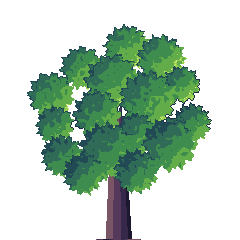
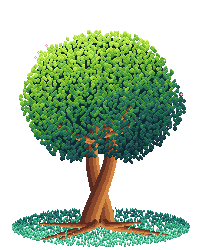
art: leafier procedural trees (stamped leaves, top light, twisted trunk, roots on a mound)
Style studied from pixel-art tree references; no pixels copied.
Comparison now 46,538 vs 12,584 changed px per loop on the demo tree.

diff --git a/index.html b/index.html
@@ -79,11 +79,11 @@
         <div class="stage">
           <figure>
             <div class="well"><canvas id="howRot"></canvas></div>
-            <figcaption class="eyebrow">Rotation sway · <span id="rotCount">25,258</span> px change per loop</figcaption>
+            <figcaption class="eyebrow">Rotation sway · <span id="rotCount">46,538</span> px change per loop</figcaption>
           </figure>
           <figure>
             <div class="well"><canvas id="howOurs"></canvas></div>
-            <figcaption class="eyebrow">Pixel Wind · <span id="oursCount">5,174</span> px change per loop</figcaption>
+            <figcaption class="eyebrow">Pixel Wind · <span id="oursCount">12,584</span> px change per loop</figcaption>
           </figure>
         </div>
         <p>

diff --git a/tests/core/analyze.test.ts b/tests/core/analyze.test.ts
@@ -64,8 +64,8 @@ describe('analyze', () => {
 
   it('matches the known values on the demo tree', () => {
     const p = analyze(loadTree());
-    expect(p.bbox).toEqual({ x0: 17, y0: 16, x1: 133, y1: 149 });
-    expect(p.pinY).toBe(124);
+    expect(p.bbox).toEqual({ x0: 8, y0: 18, x1: 121, y1: 157 });
+    expect(p.pinY).toBe(130);
     expect(p.clusters.length).toBe(8);
   });
 });

diff --git a/tests/core/render.test.ts b/tests/core/render.test.ts
@@ -33,7 +33,7 @@ describe('renderFrames', () => {
   it('returns N frames of the source size, frame 0 identical', () => {
     const r = run({ strength: 2, frames: 8, seed: 1 });
     expect(r.frames.length).toBe(8);
-    expect(r.frames[0].width).toBe(150);
+    expect(r.frames[0].width).toBe(128);
     expect(imagesEqual(r.frames[0], r.img)).toBe(true);
   });
 

diff --git a/scripts/art/tree.py b/scripts/art/tree.py
@@ -1,8 +1,8 @@
 """Procedural pixel-art tree (original art for the Pixel Wind demo, CC0).
 
-Canopy = overlapping leaf clumps with jagged edges, lit from the top-left,
-drawn top-to-bottom so lower clumps overlap the ones behind them. Trunk and a
-few branches are drawn first and peek through the gaps.
+Style: a canopy built from hundreds of small stamped leaves, lit from above
+(yellow-green crown fading to deep teal underneath, dark interior showing the
+branches), a twisted warm-brown trunk, roots spreading over a grassy mound.
 
 usage: python tree.py SEED WIDTH HEIGHT OUT.png
 """
@@ -11,121 +11,174 @@ import sys
 import numpy as np
 from PIL import Image
 
-LEAF = ["#1b2f45", "#224a55", "#2f6b56", "#3f8c4f", "#62ad4a", "#96cf4f", "#d4ec7a"]
-BARK = ["#1d1730", "#35284a", "#54395a", "#7a5566"]
+
+def ramp(*hexes):
+    return [tuple(int(h[i:i + 2], 16) for i in (1, 3, 5)) for h in hexes]
 
 
-def hexc(s):
-    return tuple(int(s[i:i + 2], 16) for i in (1, 3, 5))
+LEAF = ramp("#10292f", "#173f45", "#1f5b55", "#2a7a50", "#4f9c3a", "#7fbf35", "#aee045", "#d8f46a")
+BARK = ramp("#321814", "#5a2b20", "#86442a", "#b06434", "#d48a44")
+GRASS = ramp("#173f47", "#1f6160", "#2a8a75", "#47b98e", "#80e2ae")
+FLOWER = ramp("#e59bbd", "#fff0f6")
+
+# leaf stamps: h = highlight, b = body, s = shadow edge
+LEAVES = [
+    ["  hh", " hbb", "hbbs", "bbs ", "bs  "],
+    [" hh ", "hbbh", "bbbb", "sbbs", " ss "],
+    ["hhb", "bbb", "bbs", "ss "],
+    [" hb ", "hbbb", "bbbs", " bs "],
+]
+BLADES = [["h", "b", "s"], [" h", "hb", "bs"], ["h ", "bh", "sb"], ["h", "b"]]
 
 
-LEAF = [hexc(c) for c in LEAF]
-BARK = [hexc(c) for c in BARK]
+class Canvas:
+    def __init__(self, W, H):
+        self.W, self.H = W, H
+        self.rgb = np.zeros((H, W, 3), np.uint8)
+        self.op = np.zeros((H, W), bool)
+
+    def put(self, x, y, c):
+        x, y = int(round(x)), int(round(y))
+        if 0 <= x < self.W and 0 <= y < self.H:
+            self.rgb[y, x] = c
+            self.op[y, x] = True
+
+    def stamp(self, shape, x, y, pal, t):
+        for j, row in enumerate(shape):
+            for i, ch in enumerate(row):
+                if ch == " ":
+                    continue
+                k = t + 1 if ch == "h" else t - 1 if ch == "s" else t
+                self.put(x + i, y + j, pal[max(0, min(len(pal) - 1, k))])
 
 
-def smooth_noise(rng, w, h, period):
-    """Blocky value noise at roughly `period` px, bilinear, about 0..1."""
-    gw, gh = w // period + 2, h // period + 2
-    g = rng.random((gh, gw))
-    ys, xs = np.mgrid[0:h, 0:w] / period
-    x0, y0 = xs.astype(int), ys.astype(int)
-    fx, fy = xs - x0, ys - y0
-    a = g[y0, x0] * (1 - fx) + g[y0, x0 + 1] * fx
-    b = g[y0 + 1, x0] * (1 - fx) + g[y0 + 1, x0 + 1] * fx
-    return a * (1 - fy) + b * fy
-
-
-def line(canvas, mask, x0, y0, x1, y1, w0, w1, tone_fn):
-    n = int(max(abs(x1 - x0), abs(y1 - y0))) + 1
-    for i in range(n):
-        t = i / max(1, n - 1)
-        x, y, w = x0 + (x1 - x0) * t, y0 + (y1 - y0) * t, w0 + (w1 - w0) * t
-        for dx in range(int(-w / 2) - 1, int(w / 2) + 2):
-            px, py = int(round(x + dx)), int(round(y))
-            if 0 <= px < canvas.shape[1] and 0 <= py < canvas.shape[0] and abs(px - x) <= w / 2:
-                canvas[py, px] = tone_fn((px - x) / max(w / 2, 1))
-                mask[py, px] = True
+def strand(cv, pts, w0, w1, light=-1):
+    """Thick tapered stroke along a polyline, shaded across its width."""
+    segs = list(zip(pts[:-1], pts[1:]))
+    total = sum(np.hypot(b[0] - a[0], b[1] - a[1]) for a, b in segs) or 1
+    done = 0.0
+    for (x0, y0), (x1, y1) in segs:
+        ln = np.hypot(x1 - x0, y1 - y0)
+        n = int(ln * 2) + 1
+        nx, ny = -(y1 - y0) / (ln or 1), (x1 - x0) / (ln or 1)
+        for i in range(n):
+            t = i / n
+            f = (done + ln * t) / total
+            w = w0 + (w1 - w0) * f
+            cx, cy = x0 + (x1 - x0) * t, y0 + (y1 - y0) * t
+            for s in np.arange(-w / 2, w / 2 + 0.01, 0.5):
+                u = s / max(w / 2, 0.5) * light          # -1 lit side .. 1 shade side
+                k = 4 if u < -0.6 else 3 if u < -0.1 else 2 if u < 0.5 else 1
+                cv.put(cx + nx * s, cy + ny * s, BARK[k])
+        done += ln
+    return cv
 
 
 def make_tree(seed, W, H):
     rng = np.random.default_rng(seed)
-    img = np.zeros((H, W, 3), np.uint8)
-    op = np.zeros((H, W), bool)
-    cx = W / 2 + rng.uniform(-2, 2)
+    cv = Canvas(W, H)
+    cx = W / 2
+    ground = H - H * 0.09
+    mound_rx, mound_ry = W * 0.44, H * 0.075
+    can_top, can_bot = H * 0.08, H * 0.71
+    can_cy = (can_top + can_bot) / 2
+    can_rx, can_ry = W * 0.39, (can_bot - can_top) / 2 * 0.86
 
-    # canopy ellipse
-    rmax = 0.13 * W
-    crx, cry = W * 0.5 - rmax - 3, H * 0.40 - rmax * 0.5
-    ccy = cry + rmax + 2
-    base_y = H - 1
-    trunk_top = ccy + cry * 0.2
-
-    def bark(u):  # u in [-1, 1] across the trunk, lit from the left
-        return BARK[3] if u < -0.45 else BARK[2] if u < 0.2 else BARK[1] if u < 0.7 else BARK[0]
-
-    # trunk + root flare
-    line(img, op, cx, base_y, cx + rng.uniform(-2, 2), trunk_top, W * 0.11, W * 0.06, bark)
-    for s in (-1, 1):
-        line(img, op, cx + s * W * 0.03, base_y, cx + s * W * 0.09, base_y, 3, 2, bark)
-    # branches toward the canopy
-    for _ in range(5):
-        ang = rng.uniform(-2.4, -0.7)
-        ln = rng.uniform(0.45, 0.8) * crx
-        sx, sy = cx, trunk_top + rng.uniform(0, H * 0.08)
-        line(img, op, sx, sy, sx + np.cos(ang) * ln, sy + np.sin(ang) * ln * 0.8, W * 0.035, 1.5, bark)
-
-    # clumps: sample centres inside the canopy ellipse
-    clumps = []
-    tries = 0
-    while len(clumps) < 60 and tries < 6000:
-        tries += 1
-        ang, rad = rng.uniform(0, 2 * np.pi), np.sqrt(rng.random())
-        x = cx + np.cos(ang) * rad * crx * 0.86
-        y = ccy + np.sin(ang) * rad * cry * 0.86
-        r = rng.uniform(0.09, 0.13) * W * (1.0 - 0.2 * rad)
-        if all(np.hypot(x - a, y - b) > 0.7 * (r + c) for a, b, c, *_ in clumps):
-            clumps.append((x, y, r, rng.uniform(0, 2 * np.pi), rng.integers(11, 15)))
-    clumps.sort(key=lambda c: c[1])  # top first; lower clumps overlap
-
-    leafn = smooth_noise(rng, W, H, 3)
     yy, xx = np.mgrid[0:H, 0:W].astype(float)
-    lx, ly = -0.62, -0.78
-    top, bot = ccy - cry, ccy + cry
-    for x, y, r, ph, k in clumps:
-        dx, dy = xx - x, yy - y
-        theta = np.arctan2(dy, dx)
-        edge = r * (1 + 0.08 * np.sin(k * theta + ph) + 0.05 * np.sin(2.3 * k * theta + 2 * ph)) + 1.6 * (leafn - 0.5)
-        d = np.hypot(dx, dy)
-        inside = d <= edge
-        if not inside.any():
-            continue
-        lam = -(dx * lx + dy * ly) / np.maximum(edge, 1)          # -1 .. 1
-        height = 1 - np.clip((yy - top) / (bot - top), 0, 1)      # 1 at top
-        t = 2.1 + 1.8 * lam + 1.5 * height + 1.2 * (leafn - 0.5)
-        rim = inside & (d > edge - 1.6) & (lam < 0.1)             # dark separation on the shadow side
-        t = np.where(rim, np.minimum(t, 0.6), t)
-        tone = np.clip(np.round(t), 0, 5).astype(int)
-        for i in range(6):
-            m = inside & (tone == i)
-            img[m] = LEAF[i]
-        op |= inside
 
-    # sparse highlight flecks on lit upper clumps
-    lit = op & (img == np.array(LEAF[5])).all(axis=2)
-    cand = np.argwhere(lit)
-    for py, px in cand[rng.choice(len(cand), size=min(len(cand), W // 5), replace=False)]:
-        img[py, px] = LEAF[6]
+    # --- grassy mound, back half
+    def mound(front):
+        for _ in range(int(W * H * 0.05)):
+            x = cx + rng.uniform(-1, 1) * mound_rx
+            dy = mound_ry * np.sqrt(max(0, 1 - ((x - cx) / mound_rx) ** 2))
+            y = ground + rng.uniform(-dy, dy)
+            is_front = y > ground - 1
+            if is_front != front:
+                continue
+            depth = (y - (ground - dy)) / max(2 * dy, 1)        # 0 back .. 1 front
+            t = int(np.clip(round(0.8 + 2.6 * depth + rng.normal(0, 0.3)), 1, 3))
+            cv.stamp(BLADES[rng.integers(len(BLADES))], x, y - 2, GRASS, t)
 
-    # silhouette outline on the shadow side
-    pad = np.pad(op, 1)
-    edge = op & ~(pad[:-2, 1:-1] & pad[2:, 1:-1] & pad[1:-1, :-2] & pad[1:-1, 2:])
-    shade = (xx - cx) * 0.4 + (yy - ccy)
-    out = edge & (shade > -cry * 0.15) & (yy < trunk_top)
-    img[out] = LEAF[0]
+    mound(front=False)
+
+    # --- trunk: two intertwined strands + branches
+    top_y = can_cy + can_ry * 0.35
+    for ph in (0.0, np.pi):
+        pts = [(cx + np.sin(t * 3.6 + ph + seed) * W * 0.05 + (t - 0.5) * W * 0.03,
+                ground - 2 - t * (ground - 2 - top_y)) for t in np.linspace(0, 1, 12)]
+        strand(cv, pts, W * 0.09, W * 0.045)
+    for k in range(5):
+        side = -1 if k % 2 else 1
+        sx, sy = cx + rng.uniform(-2, 2), top_y + rng.uniform(0, H * 0.08)
+        ex = cx + side * rng.uniform(0.35, 0.7) * can_rx
+        ey = sy - rng.uniform(0.15, 0.45) * can_ry
+        mid = ((sx + ex) / 2 + side * rng.uniform(0, 4), (sy + ey) / 2 + rng.uniform(2, 6))
+        strand(cv, [(sx, sy), mid, (ex, ey)], W * 0.035, 1.2, light=-side)
+
+    # --- canopy mask: big dome + lumps, notched underneath
+    mask = ((xx - cx) / can_rx) ** 2 + ((yy - can_cy) / can_ry) ** 2 <= 1
+    for _ in range(9):
+        a = rng.uniform(np.pi * 0.95, np.pi * 2.05)
+        bx, by = cx + np.cos(a) * can_rx * 0.75, can_cy + np.sin(a) * can_ry * 0.7
+        r = rng.uniform(0.09, 0.13) * W
+        mask |= (xx - bx) ** 2 + (yy - by) ** 2 <= r * r
+    notch = ((xx - cx) / (can_rx * 0.45)) ** 2 + ((yy - can_bot) / (can_ry * 0.35)) ** 2 <= 1
+    mask &= ~notch
+    mys, mxs = np.nonzero(mask)
+    ctop, cbot = mys.min(), mys.max()
+
+    # dark interior first, so gaps between leaves read as depth
+    inner = mask & (((xx - cx) / can_rx) ** 2 + ((yy - can_cy) / can_ry) ** 2 <= 0.85)
+    cv.rgb[inner & ~cv.op] = LEAF[0]
+    cv.op |= inner
+
+    # --- leaves
+    leaves = []
+    step = 3.3
+    for y in np.arange(ctop - 2, cbot + 2, step):
+        for x in np.arange(mxs.min() - 2, mxs.max() + 2, step):
+            px, py = x + rng.uniform(-1.2, 1.2), y + rng.uniform(-1.2, 1.2)
+            ix, iy = int(px), int(py)
+            if not (0 <= ix < W and 0 <= iy < H and mask[iy, ix]):
+                continue
+            height = 1 - (py - ctop) / max(1, cbot - ctop)          # 1 at the crown
+            side = (px - cx) / can_rx
+            lam = -0.18 * side + 1.0 * height                          # light from above, a touch from the left
+            centre = max(0, 1 - abs(side) * 1.4) * max(0, 0.75 - height)
+            if rng.random() < 0.55 * centre:                           # hollow, shaded underside
+                continue
+            t = round(1.0 + 5.2 * lam + rng.normal(0, 0.35))
+            leaves.append((int(np.clip(t, 1, 6)), rng.random(), px, py))
+    leaves.sort()                                                      # bright leaves land on top
+    for t, _, px, py in leaves:
+        shape = LEAVES[rng.integers(len(LEAVES))]
+        if rng.random() < 0.5:
+            shape = [row[::-1] for row in shape]
+        cv.stamp(shape, px - 1, py - 1, LEAF, t)
+
+    # --- front grass, then roots over it, then a few tufts in front of the roots
+    mound(front=True)
+    for k in range(6):
+        side = -1 if k % 2 else 1
+        sx = cx + side * rng.uniform(1, 4)
+        ex = cx + side * rng.uniform(0.35, 0.8) * mound_rx
+        ey = ground + rng.uniform(-mound_ry * 0.3, mound_ry * 0.6)
+        strand(cv, [(sx, ground - 6), (sx + side * 4, ground - 2), (ex, ey)], W * 0.035, 1.0, light=-side)
+    for _ in range(int(W * 0.35)):
+        x = cx + rng.uniform(-1, 1) * mound_rx * 0.9
+        dy = mound_ry * np.sqrt(max(0, 1 - ((x - cx) / mound_rx) ** 2))
+        cv.stamp(BLADES[rng.integers(len(BLADES))], x, ground + rng.uniform(0, dy) - 1, GRASS, 3)
+
+    # --- a few blossoms on the crown edge
+    edge = mask & ~np.roll(mask, 2, axis=0)
+    cand = np.argwhere(edge & (yy < can_cy))
+    for py, px in cand[rng.choice(len(cand), size=min(len(cand), 5), replace=False)]:
+        for dx, dy in ((0, 0), (1, 0), (-1, 0), (0, 1), (0, -1)):
+            cv.put(px + dx, py + dy - 1, FLOWER[1] if dx == dy == 0 else FLOWER[0])
 
     rgba = np.zeros((H, W, 4), np.uint8)
-    rgba[..., :3] = img
-    rgba[..., 3] = np.where(op, 255, 0)
+    rgba[..., :3] = cv.rgb
+    rgba[..., 3] = np.where(cv.op, 255, 0)
     return rgba
 
 

diff --git a/README.md b/README.md
@@ -6,7 +6,7 @@ Turn any pixel-art sprite into a seamless wind sway loop — **no shimmer, no ne
 
 **Try it:** https://pixel-wind.vercel.app
 
-On the demo tree, a typical rotation sway changes **25,258 pixels per loop**; Pixel Wind changes **5,174** — about 5× less flicker for the same breeze.
+On the demo tree, a typical rotation sway changes **46,538 pixels per loop**; Pixel Wind changes **12,584** — about 4× less flicker for the same breeze.
 
 ## Why it doesn't shimmer
 
